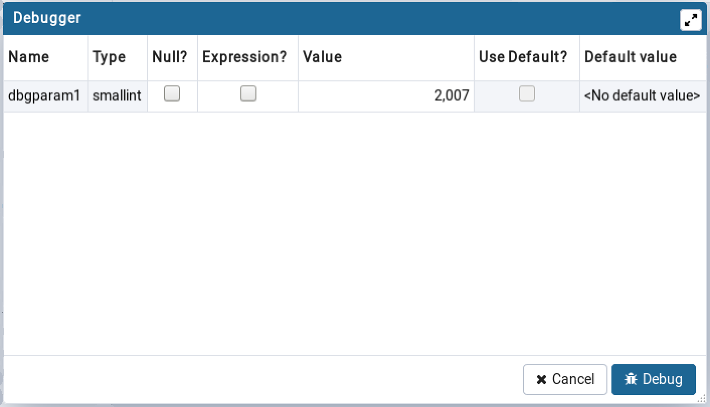
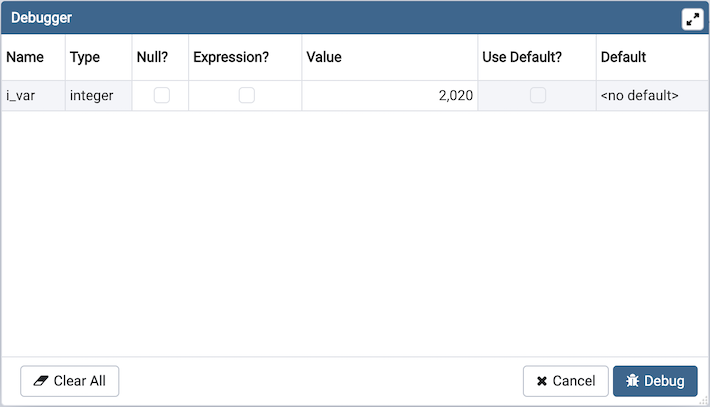
Fix an issue where debugger not showing all arguments anymore after hitting SQL error while debugging. Fixes #5101
Added a "Clear All" button to the argument dialog which will clear all the saved arguments values from SQLite DB.

diff --git a/web/pgadmin/tools/debugger/static/js/debugger_ui.js b/web/pgadmin/tools/debugger/static/js/debugger_ui.js
@@ -69,7 +69,7 @@ define([
         // As we are getting this value as text from sqlite database so we need to type cast it.
         if (model.get('value') != undefined) {
           model.set({
-            'value': parseInt(model.get('value')),
+            'value': isNaN(parseInt(model.get('value'))) ? null : parseInt(model.get('value')),
           }, {
             silent: true,
           });
@@ -176,6 +176,7 @@ define([
             this.set('debug_info', debug_info);
             this.set('restart_debug', restart_debug);
             this.set('trans_id', trans_id);
+            this.set('is_edb_proc', is_edb_proc);
 
             // Variables to store the data sent from sqlite database
             var func_args_data = this.func_args_data = [];
@@ -289,6 +290,7 @@ define([
                 label: gettext('Null?'),
                 type: 'boolean',
                 cell: 'boolean',
+                align_center: true,
               },
               {
                 name: 'expr',
@@ -296,6 +298,7 @@ define([
                 type: 'boolean',
                 cellFunction: cellExprControlFunction,
                 editable: disableExpressionControl,
+                align_center: true,
               },
               {
                 name: 'value',
@@ -304,6 +307,7 @@ define([
                 editable: true,
                 cellFunction: cellFunction,
                 headerCell: value_header,
+                align_center: true,
               },
               {
                 name: 'use_default',
@@ -413,12 +417,12 @@ define([
               // Need to update the func_obj variable from sqlite database if available
               if (func_args_data.length != 0) {
                 for (i = 0; i < func_args_data.length; i++) {
+                  index = func_args_data[i]['arg_id'];
                   if (debug_info['proargmodes'] != null &&
-                    (argmode[i] == 'o' && !is_edb_proc)) {
+                    (argmode[index] == 'o' && !is_edb_proc)) {
                     continue;
                   }
 
-                  index = func_args_data[i]['arg_id'];
                   values = [];
                   if (argtype[index].indexOf('[]') != -1) {
                     vals = func_args_data[i]['value'].split(',');
@@ -565,14 +569,17 @@ define([
             });
 
             grid.render();
-            $(this.elements.content).html(grid.el);
+            let wrap_div = document.createElement('div');
+            wrap_div.classList.add('debugger-args');
+            wrap_div.appendChild(grid.el);
+            $(this.elements.content).html(wrap_div);
 
             // For keyboard navigation in the grid
             // we'll set focus on checkbox from the first row if any
             var grid_checkbox = $(grid.el).find('input:checkbox').first();
             if (grid_checkbox.length) {
               setTimeout(function() {
-                grid_checkbox.trigger('click');
+                grid_checkbox.trigger('focus');
               }, 250);
             }
 
@@ -585,6 +592,9 @@ define([
           setup: function() {
             return {
               buttons: [{
+                text: gettext('Clear All'),
+                className: 'btn btn-secondary pull-left fa fa-eraser pg-alertify-button',
+              },{
                 text: gettext('Cancel'),
                 key: 27,
                 className: 'btn btn-secondary fa fa-times pg-alertify-button',
@@ -899,6 +909,69 @@ define([
 
               return false;
             }
+
+            if (e.button.text === gettext('Clear All')) {
+              let self = this;
+              let baseUrl = null;
+
+              if (self.setting('restart_debug') == 0) {
+                let selected_item = pgBrowser.tree.selected();
+                let item_data = pgBrowser.tree.itemData(selected_item);
+                if (!item_data)
+                  return;
+
+                let node = pgBrowser.Nodes[item_data._type];
+                let treeInfo = node.getTreeNodeHierarchy.call(node, selected_item);
+
+                let f_id;
+                if (item_data._type == 'function') {
+                  f_id = item_data._id;
+                } else if (item_data._type == 'procedure') {
+                  f_id = item_data._id;
+                } else if (item_data._type == 'edbfunc') {
+                  f_id = item_data._id;
+                } else if (item_data._type == 'edbproc') {
+                  f_id = item_data._id;
+                }
+
+                baseUrl = url_for('debugger.clear_arguments', {
+                  'sid': treeInfo.server._id,
+                  'did': treeInfo.database._id,
+                  'scid': treeInfo.schema._id,
+                  'func_id': f_id,
+                });
+              } else {
+                baseUrl = url_for('debugger.clear_arguments', {
+                  'sid': self.setting('debug_info').server_id,
+                  'did': self.setting('debug_info').database_id,
+                  'scid': self.setting('debug_info').schema_id,
+                  'func_id': self.setting('debug_info').function_id,
+                });
+              }
+              $.ajax({
+                url: baseUrl,
+                method: 'POST',
+                data: {
+                  'data': JSON.stringify(args_value_list),
+                },
+              }).done(function() {
+                /* Disable debug button */
+                self.__internal.buttons[2].element.disabled = true;
+                self.main(self.setting('title'), self.setting('debug_info'),
+                  self.setting('restart_debug'), self.setting('is_edb_proc'),
+                  self.setting('trans_id')
+                );
+                self.prepare();
+              }).fail(function(e) {
+                Alertify.alert(
+                  gettext('Clear failed'),
+                  e.responseJSON.errormsg
+                );
+              });
+
+              e.cancel = true;
+              return true;
+            }
           },
           build: function() {
             Alertify.pgDialogBuild.apply(this);
@@ -914,9 +987,9 @@ define([
              enable the debug button otherwise disable the debug button.
             */
             if (this.func_args_data.length == 0) {
-              this.__internal.buttons[1].element.disabled = true;
+              this.__internal.buttons[2].element.disabled = true;
             } else {
-              this.__internal.buttons[1].element.disabled = false;
+              this.__internal.buttons[2].element.disabled = false;
             }
 
             /*
@@ -933,7 +1006,7 @@ define([
                   for (var i = 0; i < this.collection.length; i++) {
 
                     if (this.collection.models[i].get('is_null')) {
-                      obj.__internal.buttons[1].element.disabled = false;
+                      obj.__internal.buttons[2].element.disabled = false;
                       enable_btn = true;
                       continue;
                     }
@@ -944,15 +1017,15 @@ define([
                       enable_btn = true;
 
                       if (this.collection.models[i].get('use_default')) {
-                        obj.__internal.buttons[1].element.disabled = false;
+                        obj.__internal.buttons[2].element.disabled = false;
                       } else {
-                        obj.__internal.buttons[1].element.disabled = true;
+                        obj.__internal.buttons[2].element.disabled = true;
                         break;
                       }
                     }
                   }
                   if (!enable_btn)
-                    obj.__internal.buttons[1].element.disabled = false;
+                    obj.__internal.buttons[2].element.disabled = false;
                 };
               })(this)
             );
@@ -960,7 +1033,7 @@ define([
             this.grid.listenTo(this.debuggerInputArgsColl, 'backgrid:error',
               (function(obj) {
                 return function() {
-                  obj.__internal.buttons[1].element.disabled = true;
+                  obj.__internal.buttons[2].element.disabled = true;
                 };
               })(this)
             );

diff --git a/web/pgadmin/static/js/backgrid.pgadmin.js b/web/pgadmin/static/js/backgrid.pgadmin.js
@@ -1916,6 +1916,58 @@ define([
     },
   });
 
+  Backgrid.BooleanCell = Backgrid.BooleanCell.extend({
+    className: 'boolean-cell',
+
+    enterEditMode: function() {
+      this.$el.addClass('editor');
+      $(this.$el.find('input[type=checkbox]')).trigger('focus');
+    },
+
+    exitEditMode: function() {
+      this.$el.removeClass('editor');
+    },
+
+    events: {
+      'change input': 'onChange',
+      'blur input': 'exitEditMode',
+      'keydown': 'onKeyDown',
+    },
+
+    onChange: function(e) {
+      var model = this.model,
+        column = this.column,
+        val = this.formatter.toRaw(this.$input.prop('checked'), model);
+
+      this.enterEditMode();
+      // on bootstrap change we also need to change model's value
+      model.set(column.get('name'), val);
+      model.trigger('backgrid:edited', model, column, new Backgrid.Command(e));
+    },
+
+    render: function () {
+      this.$el.empty();
+      var model = this.model, column = this.column;
+      var editable = Backgrid.callByNeed(column.editable(), column, model);
+      var align_center = column.get('align_center') || false;
+      let checked =  this.formatter.fromRaw(model.get(column.get('name')), model);
+      let id = `column.get('name')_${_.uniqueId()}`;
+
+      this.$el.empty();
+      this.$el.append(
+        $(`<div class="custom-control custom-checkbox custom-checkbox-no-label ${align_center?'text-center':''}">
+          <input tabindex="0" type="checkbox" class="custom-control-input" id="${id}" ${!editable?'disabled':''} ${checked?'checked':''}/>
+          <label class="custom-control-label" for="${id}">
+            <span class="sr-only">Select<span>
+          </label>
+        </div>`)
+      );
+      this.$input = this.$el.find('input');
+      this.delegateEvents();
+      return this;
+    },
+  });
+
   return Backgrid;
 
 });

diff --git a/web/pgadmin/tools/debugger/static/scss/_debugger.scss b/web/pgadmin/tools/debugger/static/scss/_debugger.scss
@@ -16,3 +16,10 @@
     -ms-user-select: text;
     user-select: text;
 }
+
+.debugger-args {
+    display: block;
+    width: 100%;
+    height: 100%;
+    overflow: auto;
+}

diff --git a/web/pgadmin/tools/debugger/__init__.py b/web/pgadmin/tools/debugger/__init__.py
@@ -241,7 +241,7 @@ class DebuggerModule(PgAdminModule):
                 'debugger.start_execution', 'debugger.set_breakpoint',
                 'debugger.clear_all_breakpoint', 'debugger.deposit_value',
                 'debugger.select_frame', 'debugger.get_arguments',
-                'debugger.set_arguments',
+                'debugger.set_arguments', 'debugger.clear_arguments',
                 'debugger.poll_end_execution_result', 'debugger.poll_result'
                 ]
 
@@ -1797,14 +1797,60 @@ def set_arguments_sqlite(sid, did, scid, func_id):
 
                 db.session.add(debugger_func_args)
 
-            db.session.commit()
+        db.session.commit()
 
     except Exception as e:
+        db.session.rollback()
         current_app.logger.exception(e)
         return make_json_response(
             status=410,
             success=0,
             errormsg=e.message
+        )
+
+    return make_json_response(data={'status': True, 'result': 'Success'})
+
+
+@blueprint.route(
+    '/clear_arguments/<int:sid>/<int:did>/<int:scid>/<int:func_id>',
+    methods=['POST'], endpoint='clear_arguments'
+)
+@login_required
+def clear_arguments_sqlite(sid, did, scid, func_id):
+    """
+    clear_arguments_sqlite(sid, did, scid, func_id)
+
+    This method is responsible for clearing function arguments
+    from sqlite database
+
+    Parameters:
+        sid
+        - Server Id
+        did
+        - Database Id
+        scid
+        - Schema Id
+        func_id
+        - Function Id
+    """
+
+    try:
+        db.session.query(DebuggerFunctionArguments) \
+            .filter(DebuggerFunctionArguments.server_id == sid,
+                    DebuggerFunctionArguments.database_id == did,
+                    DebuggerFunctionArguments.schema_id == scid,
+                    DebuggerFunctionArguments.function_id == func_id) \
+            .delete()
+
+        db.session.commit()
+
+    except Exception as e:
+        db.session.rollback()
+        current_app.logger.exception(e)
+        return make_json_response(
+            status=410,
+            success=0,
+            errormsg=str(e)
         )
 
     return make_json_response(data={'status': True, 'result': 'Success'})

diff --git a/docs/en_US/release_notes_4_19.rst b/docs/en_US/release_notes_4_19.rst
@@ -28,6 +28,7 @@ Bug fixes
 | `Issue #4996 <https://redmine.postgresql.org/issues/4996>`_ -  Improve the style of the highlighted code after query execution for Dark mode.
 | `Issue #5058 <https://redmine.postgresql.org/issues/5058>`_ -  Ensure that AlertifyJS should not be visible as a title for alert dialog.
 | `Issue #5077 <https://redmine.postgresql.org/issues/5077>`_ -  Changed background pattern for geometry viewer to use #fff for all themes.
+| `Issue #5101 <https://redmine.postgresql.org/issues/5101>`_ -  Fix an issue where debugger not showing all arguments anymore after hitting SQL error while debugging.
 | `Issue #5107 <https://redmine.postgresql.org/issues/5107>`_ -  Set proper focus on tab navigation for file manager dialog.
 | `Issue #5115 <https://redmine.postgresql.org/issues/5115>`_ -  Fix an issue where command and statements were parsed incorrectly for Rules.
 | `Issue #5142 <https://redmine.postgresql.org/issues/5142>`_ -  Ensure that all the transactions should be canceled before closing the connections when a server is disconnected using pgAdmin.

diff --git a/docs/en_US/debugger.rst b/docs/en_US/debugger.rst
@@ -81,6 +81,8 @@ Use the fields on the *Debugger* dialog to provide a value for each parameter:
 
 Provide values required by the program, and click the *Debug* button to start
 stepping through the program.
+The values of the arguments provided here are saved. The values will be pre-filled
+next time the dialog opens. To clear the values, use the *Clear All* button.
 
 .. image:: images/debug_step_in.png
     :alt: Debugger step-in demo
